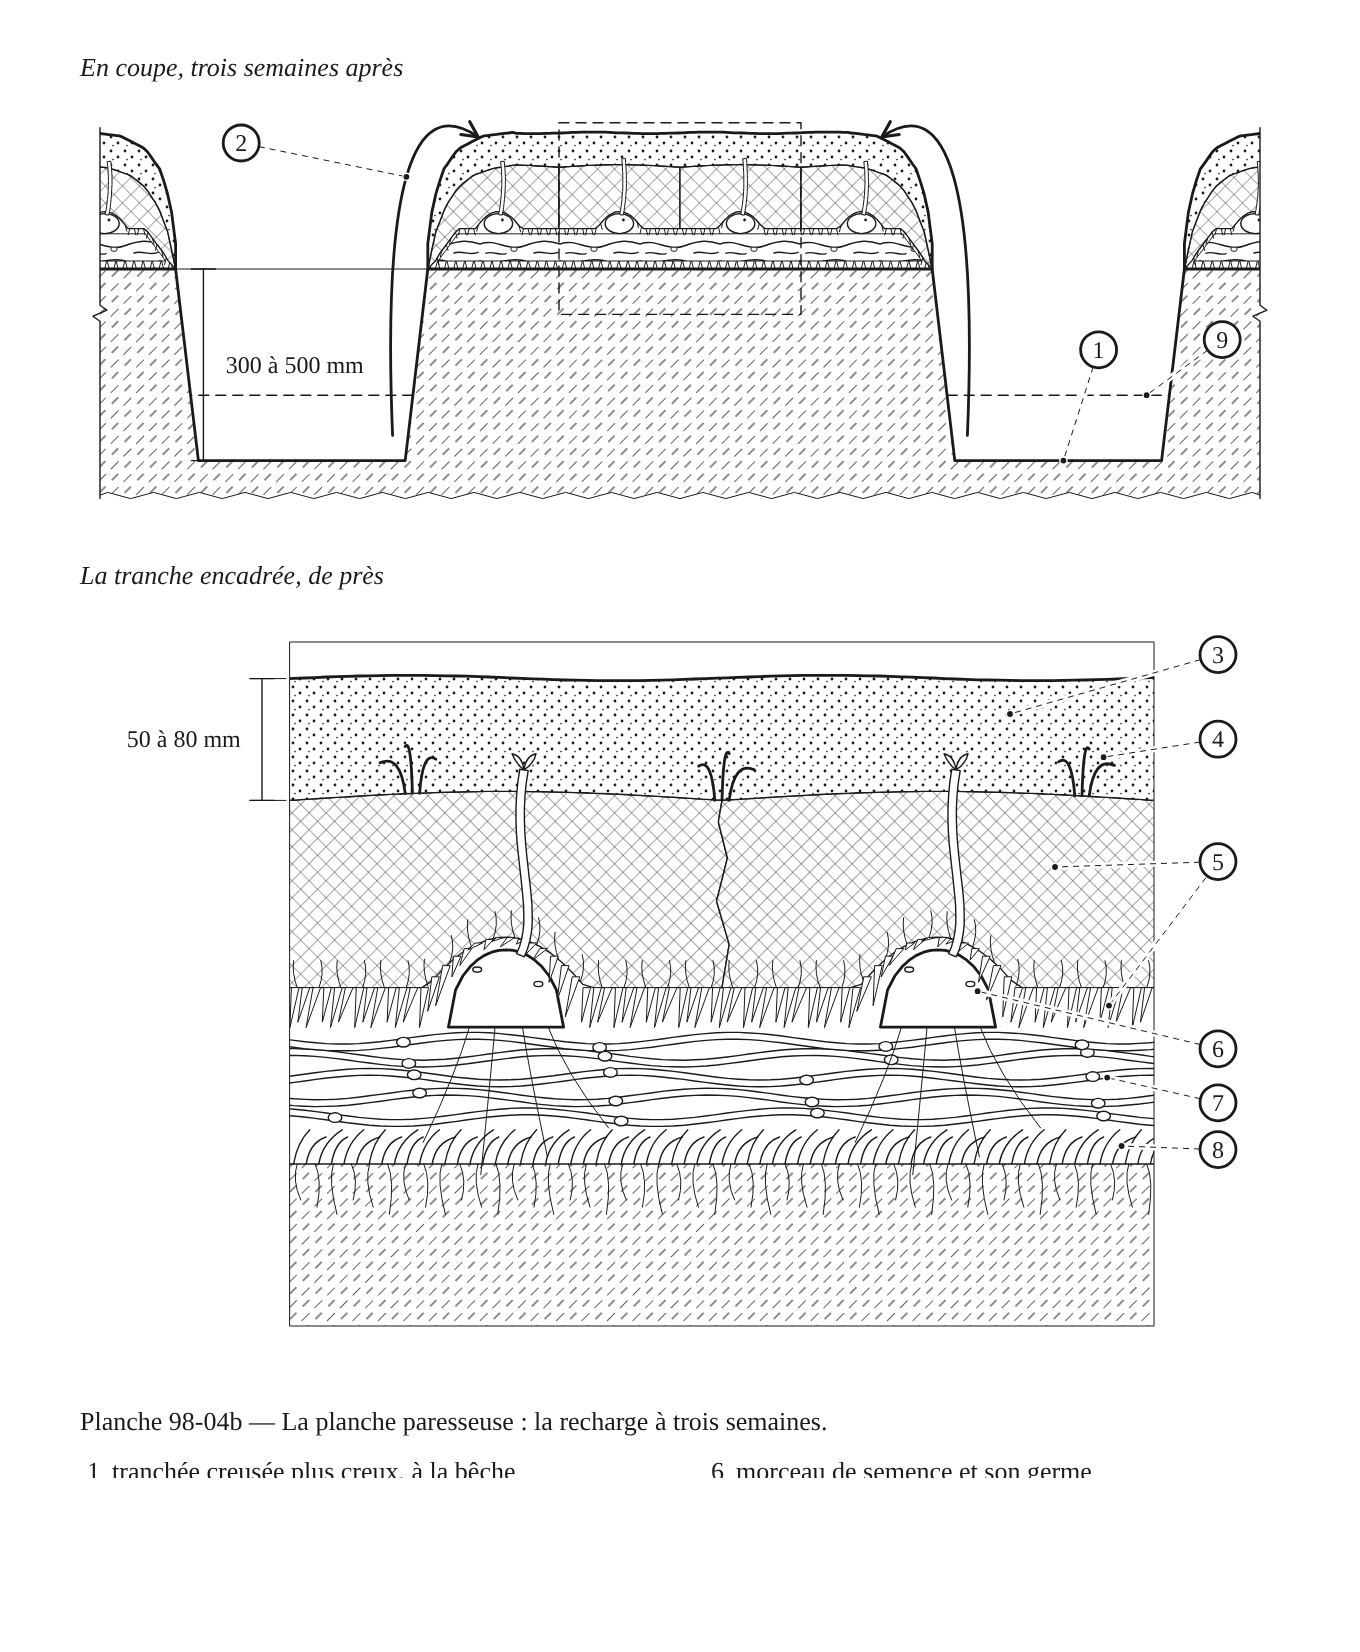
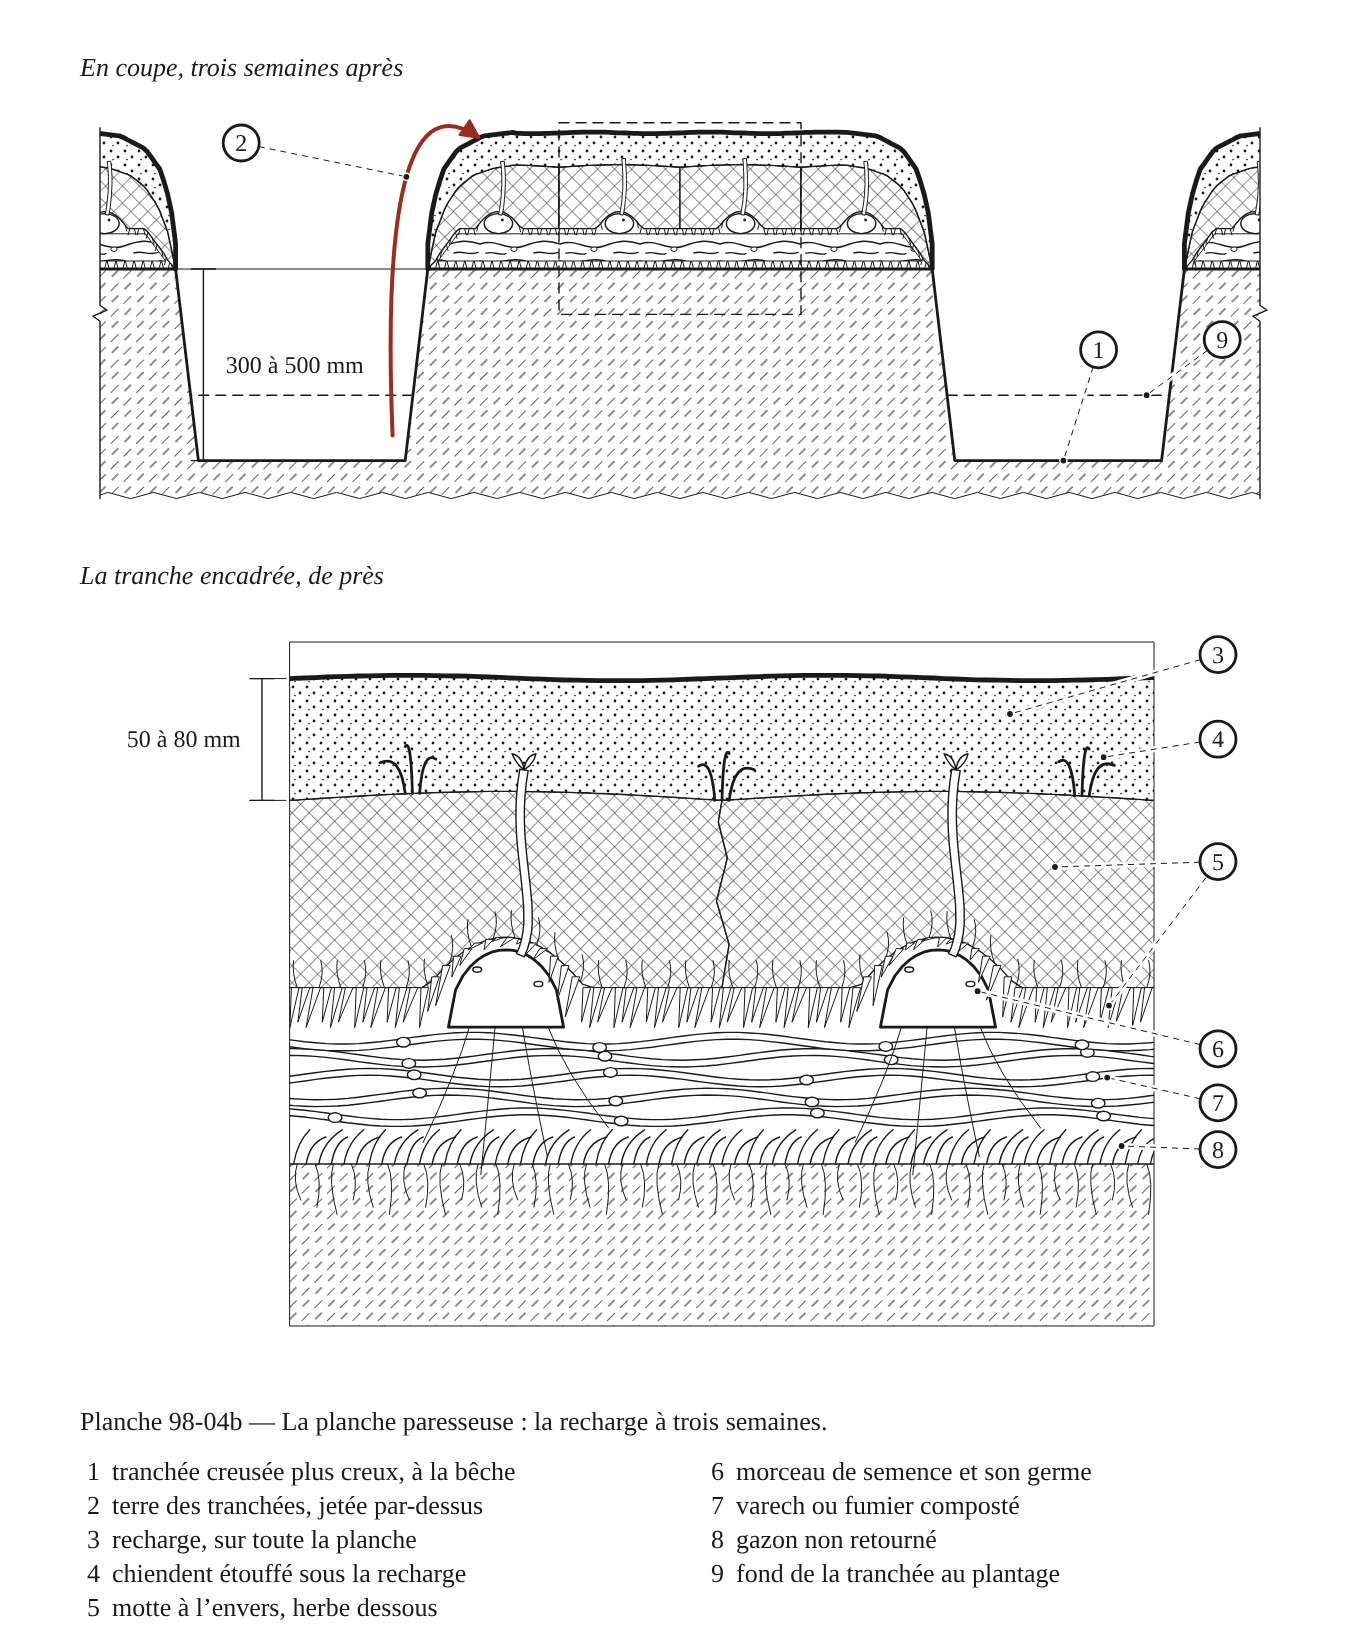
Charte et mains : travail en cours
Claude-Session: https://claude.ai/code/session_014xDY5FLxFXDJt3nYAYznSZ

diff --git a/images/planches-src/98-04b.js b/images/planches-src/98-04b.js
@@ -31,7 +31,7 @@ module.exports = (h) => {
 
   const DEFS = `<defs>
 <pattern id="${P}-varech" width="40" height="18" patternUnits="userSpaceOnUse"><path d="M0 4 C8 1 14 8 22 5 S34 2 40 4 M0 12.5 C6 15.5 16 9.5 24 13 S34 15.5 40 12.5 M27 8.5 C31 7 35 10 39 8.2 M3 8.6 C7 7.4 10 10 13 8.8" fill="none" stroke="${NOIR}" stroke-width="0.7" stroke-linecap="round"/><ellipse cx="17" cy="6.6" rx="1.6" ry="1.1" fill="#FFFFFF" stroke="${NOIR}" stroke-width="0.5"/><ellipse cx="31" cy="14.4" rx="1.6" ry="1.1" fill="#FFFFFF" stroke="${NOIR}" stroke-width="0.5"/><ellipse cx="8" cy="13.6" rx="1.3" ry="0.9" fill="#FFFFFF" stroke="${NOIR}" stroke-width="0.5"/></pattern>
-<pattern id="${P}-motte" width="6" height="6" patternUnits="userSpaceOnUse" patternTransform="rotate(45)"><line x1="0" y1="0" x2="0" y2="6" stroke="${NOIR}" stroke-width="0.4"/><line x1="0" y1="0" x2="6" y2="0" stroke="${NOIR}" stroke-width="0.4"/></pattern>
+<pattern id="${P}-motte" width="6" height="6" patternUnits="userSpaceOnUse" patternTransform="rotate(45)"><line x1="0" y1="0" x2="0" y2="6" stroke="${NOIR}" stroke-width="0.5"/><line x1="0" y1="0" x2="6" y2="0" stroke="${NOIR}" stroke-width="0.5"/></pattern>
 <pattern id="${P}-recharge" width="7" height="7" patternUnits="userSpaceOnUse"><circle cx="1.5" cy="1.5" r="0.7" fill="${NOIR}"/><circle cx="5" cy="4.5" r="0.7" fill="${NOIR}"/><circle cx="2.5" cy="5.8" r="0.4" fill="${NOIR}"/></pattern>
 </defs>`;
 
@@ -105,7 +105,8 @@ module.exports = (h) => {
       if (Math.abs(cx + xp) > XR + 20) return;
       o.push(ruban(quad(Q(xp + 4, 108), Q(xp + 14, 160), Q(xp + 8, T(xp) + 12)), 1.8, plein(h.a.fin)));
     });
-    o.push(h.chemin([Q(-500, 0)].concat(pas(-500, 500, 8).map((x) => Q(x, R(x))), [Q(500, 0)]), h.a.arete));
+    // La charte : la recharge est l'objet de la planche, son contour pèse (2,4)
+    o.push(h.chemin([Q(-500, 0)].concat(pas(-500, 500, 8).map((x) => Q(x, R(x))), [Q(500, 0)]), h.a.contour));
     return o.join('\n');
   };
 
@@ -174,7 +175,9 @@ module.exports = (h) => {
           o.push(h.ligne(...q(-1000, 0), ...q(-500, 0), h.a.fin));
           o.push(h.cote(q(-945, 0)[0], q(0, 0)[1], q(-945, 0)[0], q(0, -D1)[1], '300 à 500 mm', { cote: 'droite' }));
           // la terre des tranchées, jetée sur la planche
-          [FL_G, FL_D].forEach((F) => o.push(h.fleche(`M${pt(q(...F[0]))} Q${pt(q(...F[1]))} ${pt(q(...F[2]))}`)));
+          // La charte : une seule flèche du geste par vue, en rouge, du côté du renvoi 2 ; la planche
+          // est symétrique, l'autre tranchée se vide de même.
+          [FL_G].forEach((F) => o.push(h.geste(`M${pt(q(...F[0]))} Q${pt(q(...F[1]))} ${pt(q(...F[2]))}`)));
           // la tranche reprise de près
           const c0 = q(-240, 290), c1 = q(240, -90);
           o.push(h.rect(c0[0], c0[1], c1[0] - c0[0], c1[1] - c0[1], h.a.cache));
@@ -253,7 +256,7 @@ module.exports = (h) => {
             o.push(ruban(cub(q(xp + 8, 116), q(xp + 20, 140), q(xp + 2, 175), tp), 4.2, plein(h.a.detail)));
             o.push(h.path(`M${pt(tp)} q -4 -3 -6 -8 q 5 1 6 8 q 1 -7 6 -8 q -1 5 -6 8`, plein(h.a.detail)));
           });
-          o.push(h.chemin(pas(X0 - 10, X1 + 10, 6).map((x) => q(x, R(x))), h.a.arete));
+          o.push(h.chemin(pas(X0 - 10, X1 + 10, 6).map((x) => q(x, R(x))), h.a.contour));   // la charte
           o.push('</g>');
           o.push(h.rect(ca[0], ca[1], cb[0] - ca[0], cb[1] - ca[1], h.a.fin));
           // la cote de la recharge

diff --git a/images/planches-src/104-15b.js b/images/planches-src/104-15b.js
@@ -129,12 +129,16 @@ module.exports = (h) => ({
         // la jambe de pantalon, rentrée dans la tige, coupée en haut par un trait de rupture
         const pa = cr([[12, -275], [7, -300], [5, -345]], false, 8).map(T);
         const pv = cr([[132, -275], [137, -300], [139, -345]], false, 8).map(T);
+        const r0 = T([5, -345]), r1 = T([139, -345]), pas = (r1[0] - r0[0]) / 6;
+        const rupt = Array.from({ length: 6 }, (_, k) => `q${f1(pas / 2)},${k % 2 ? 4 : -4} ${f1(pas)},0`).join(' ');
+        // charte : la jambe de pantalon, objet secondaire, en gris loin
+        out.push(h.path(`M${f1(pa[0][0])},${f1(pa[0][1])} ` + pa.slice(1).map(p => `L${f1(p[0])},${f1(p[1])}`).join(' ')
+          + ` ${rupt} ` + pv.slice().reverse().map(p => `L${f1(p[0])},${f1(p[1])}`).join(' ') + ' Z', h.a.loin));
         out.push(h.chemin(pa, h.a.arete));
         out.push(h.chemin(pv, h.a.arete));
         out.push(h.path(['M' + pts([[22, -280], [48, -286], [70, -281]].map(T)), 'M' + pts([[64, -292], [96, -299], [122, -290]].map(T)),
           'M' + pts([[18, -306], [40, -312], [58, -306]].map(T))].join(' '), h.a.detail));
-        const r0 = T([5, -345]), r1 = T([139, -345]), pas = (r1[0] - r0[0]) / 6;
-        out.push(h.path(`M${f1(r0[0])},${f1(r0[1])} ` + Array.from({ length: 6 }, (_, k) => `q${f1(pas / 2)},${k % 2 ? 4 : -4} ${f1(pas)},0`).join(' '), h.a.detail));
+        out.push(h.path(`M${f1(r0[0])},${f1(r0[1])} ` + rupt, h.a.detail));
         // la botte
         out.push(h.chemin(g.silhouette, h.a.contour, true));
         out.push(h.chemin([T([12, -275]), T([132, -275])], h.a.contour));
@@ -216,8 +220,8 @@ module.exports = (h) => ({
         out.push(h.path(g.anneau(E_MINCE, E_EPAISSE), `${h.a.blanc} fill-rule="evenodd"`));
         // le pied : hachure fine à 45°, espacée
         out.push(h.chemin(g.off(0), h.a.hachure('metal', 'aucun'), true));
-        // chaussette mince : gris plein uni
-        out.push(h.path(g.anneau(0, E_MINCE), 'fill="#9A9A9A" stroke="none" fill-rule="evenodd"'));
+        // chaussette mince : gris plein uni (charte : le gris #CFCFCF, plus de troisième gris)
+        out.push(h.path(g.anneau(0, E_MINCE), `${h.a.ombre} fill-rule="evenodd"`));
         // chaussette épaisse : petites boucles serrées de tricot
         { const mil = equi([...g.off((E_MINCE + E_EPAISSE) / 2), g.off((E_MINCE + E_EPAISSE) / 2)[0]], 150);
           const r = (E_EPAISSE - E_MINCE) * g.s * 0.28;
